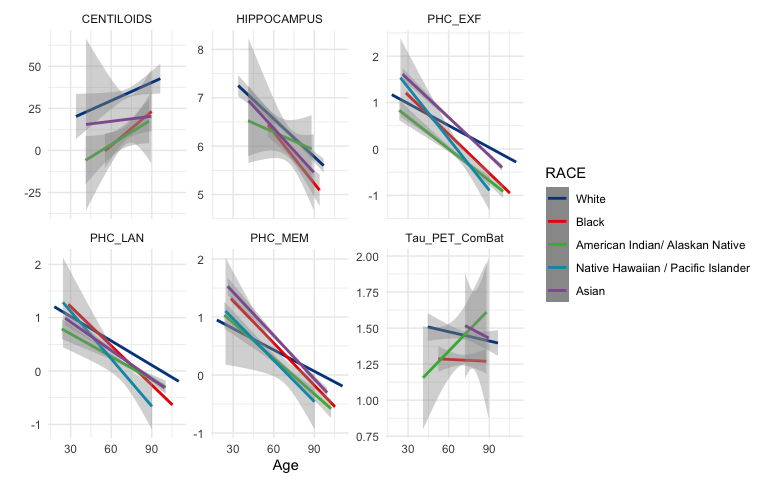
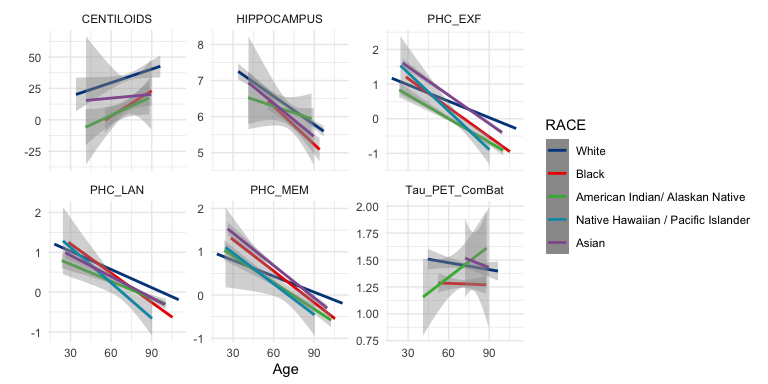
initial commit

diff --git a/README.md b/README.md
@@ -401,7 +401,7 @@ ggplot(aes(x=Age, y=value, color=RACE)) +
 
 <div class="figure">
 
-<img src="README_files/figure-gfm/CLARiTI-spaghetti-1.png" alt="Spaghetti of selected outcomes by age and race" width="100%" />
+<img src="man/figures/README-CLARiTI-spaghetti-1.png" alt="Spaghetti of selected outcomes by age and race" width="100%" />
 <p class="caption">
 
 Spaghetti of selected outcomes by age and race
@@ -426,11 +426,10 @@ ggplot(aes(x=Age, y=value, color=RACE)) +
 
 <div class="figure">
 
-<img src="README_files/figure-gfm/CLARiTI-loess-1.png" alt="Locally weighted scatterplot smooths (LOWESS) of selected outcomes by age and race" width="100%" />
+<img src="man/figures/README-CLARiTI-loess-1.png" alt="Linear trends of selected outcomes by age and race" width="100%" />
 <p class="caption">
 
-Locally weighted scatterplot smooths (LOWESS) of selected outcomes by
-age and race
+Linear trends of selected outcomes by age and race
 </p>
 
 </div>
@@ -479,7 +478,7 @@ ggplot(dd %>% filter(!is.na(Tau_PET_ComBat)),
   geom_abline(intercept = 0, slope = 1, linetype = 'dashed')
 ```
 
-<img src="README_files/figure-gfm/unnamed-chunk-10-1.png" width="100%" />
+<img src="man/figures/README-tau-PET-ComBat-1.png" width="100%" />
 
 ## References
 
